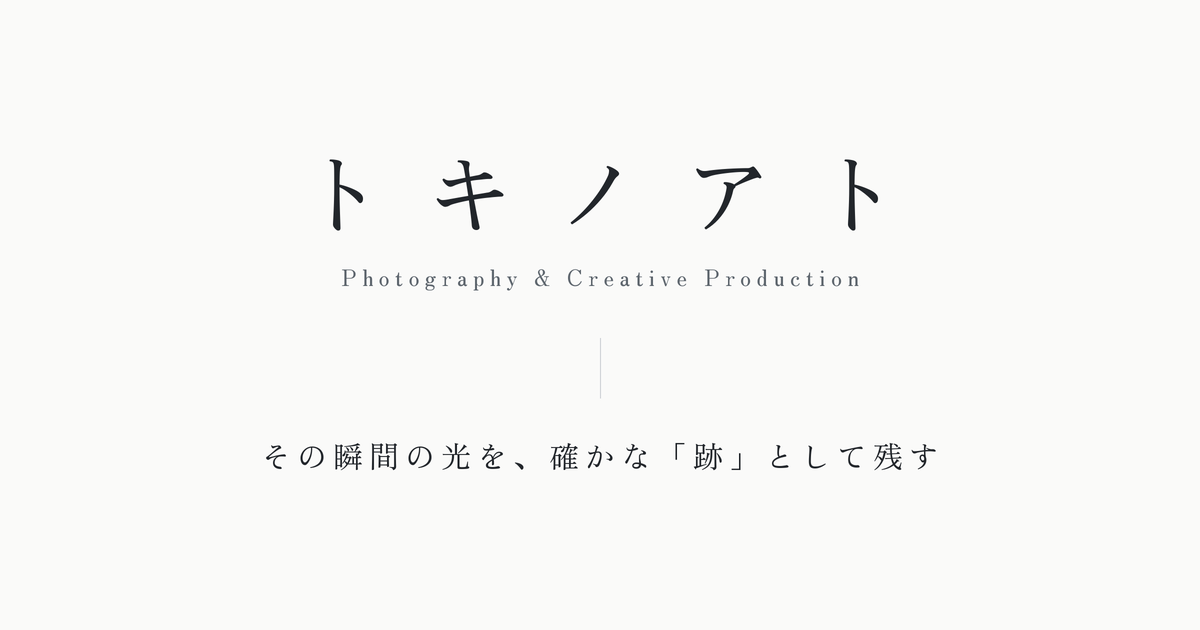
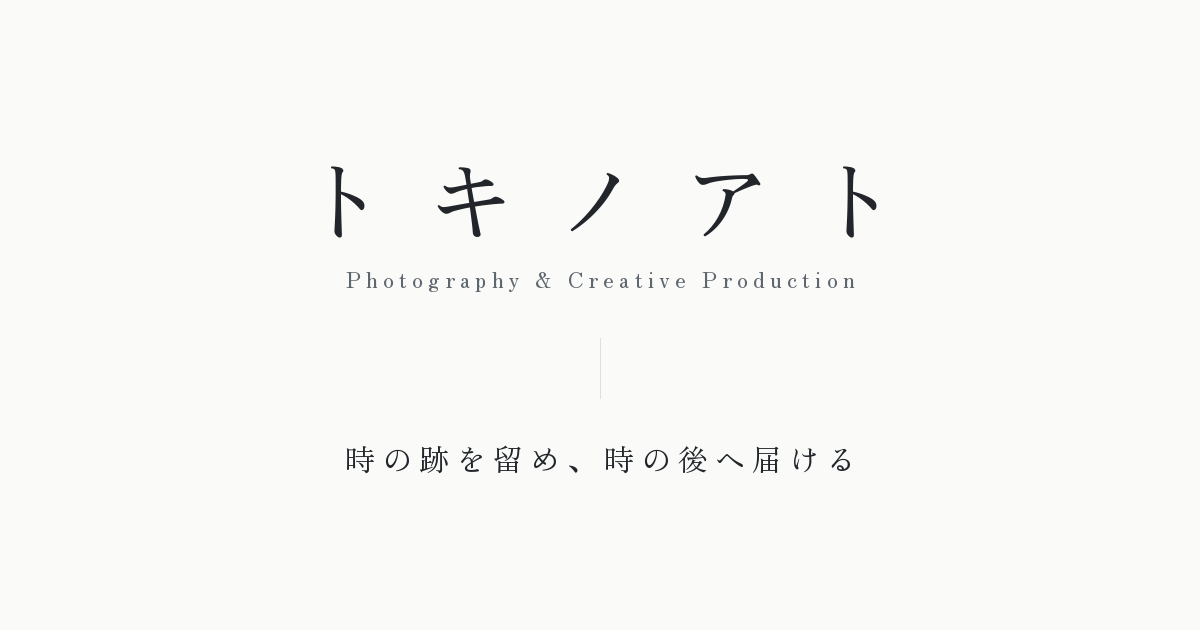
Add files via upload

diff --git a/index.html b/index.html
@@ -19,7 +19,7 @@
 <meta property="og:image" content="https://tokinoato.com/ogp_top.png">
 <meta property="og:image:width" content="1200">
 <meta property="og:image:height" content="630">
-<meta property="og:image:alt" content="トキノアト　Photography &amp; Creative Production　その瞬間の光を、確かな「跡」として残す">
+<meta property="og:image:alt" content="トキノアト　Photography &amp; Creative Production　時の跡を留め、時の後へ届ける">
 <meta name="twitter:card" content="summary_large_image">
 <script type="application/ld+json">
 {
@@ -30,8 +30,8 @@
    "@id": "https://tokinoato.com/#business",
    "name": "トキノアト",
    "alternateName": "TOKINOATO",
-   "description": "名古屋を拠点にするフォトグラフィー＆クリエイティブ・プロダクション。広告撮影、撮影ディレクション、美術品撮影。",
-   "slogan": "その瞬間の光を、確かな「跡」として残す",
+   "description": "名古屋を拠点にするフォトグラフィー＆クリエイティブ・プロダクション。広告撮影、撮影ディレクション、美術品撮影。屋号は「時の跡」と「時の後」の二つの意味を持つ。",
+   "slogan": "時の跡を留め、時の後へ届ける",
    "url": "https://tokinoato.com/",
    "email": "contact@tokinoato.com",
    "foundingDate": "2027",
@@ -58,7 +58,7 @@
        "@type": "Service",
        "name": "広告撮影",
        "alternateName": "Commercial Photography",
-       "description": "広告、会社案内、Webサイトなどに使う写真の撮影。人物、商品、建築、風景。色補正とレタッチまで手がける。"
+       "description": "広告、会社案内、Webサイトなどに使う写真の撮影。人物、商品、建築、風景、スポーツ。色補正とレタッチまで手がける。"
       }
      },
      {
@@ -199,7 +199,8 @@
   /* FOOTER */
   footer{text-align:center;padding:0 24px 80px;font-size:12px;color:var(--sub);letter-spacing:.2em;line-height:2.2}
   footer p{margin:0}
-  /* 作家ステートメント */
+  /* 屋号の由来 */
+  footer .origin{margin:0 0 1em;font-size:14px;letter-spacing:.2em;color:var(--ink)}
   footer .statement{margin:0 0 1.4em;font-size:13px;letter-spacing:.14em;color:var(--body)}
   footer .mark{margin-top:2.4em}
 
@@ -230,7 +231,7 @@
   <header>
     <h1>トキノアト</h1>
     <p class="what" lang="en">Photography &amp; Creative Production</p>
-    <p class="copy">その瞬間の光を、確かな「跡」として残す</p>
+    <p class="copy">時の跡を留め、時の後へ届ける</p>
   </header>
 
   <main>
@@ -239,7 +240,7 @@
       <div class="fields">
         <div>
           <h3>広告撮影<span class="en" lang="en">Commercial Photography</span></h3>
-          <p>広告、会社案内、Webサイトなど、あらゆる媒体に向けたビジュアルを制作します。人物、プロダクト、建築から風景まで、多岐にわたる被写体に対応。媒体のトーンに合わせた自然で緻密な色補正とレタッチまで、ワンストップで手がけます。</p>
+          <p>広告、会社案内、Webサイトなど、あらゆる媒体に向けたビジュアルを制作します。人物、プロダクト、建築、風景からスポーツまで、多岐にわたる被写体に対応。媒体のトーンに合わせた自然で緻密な色補正とレタッチまで、ワンストップで手がけます。</p>
         </div>
         <div>
           <h3>撮影ディレクション<span class="en" lang="en">Photo Direction</span></h3>
@@ -271,7 +272,8 @@
   </main>
 
   <footer class="tone">
-    <p class="statement">日常の中で、<br class="sp-only">やがて失われていくものを撮り続けている。<br>飾るためではなく、<br class="sp-only">それがそこに在ったことを残すために。</p>
+    <p class="origin">「トキノアト」は、<br class="sp-only">「時の跡」と「時の後」。</p>
+    <p class="statement">やわらかな光も、ささやかな気配も、<br class="sp-only">まばたきする間にすり抜けていく。<br>同じ瞬間は、<br class="sp-only">もう二度と巡ってこないから。<br>そのかけがえのない一瞬を<br class="sp-only">確かな「跡」として留め、<br>季節がいくつも過ぎた「後」にも、<br class="sp-only">静かに輝き続ける写真を。</p>
     <p lang="en">What stood before me, as it was.</p>
     <ul class="sns">
       <li><a href="https://x.com/naografo" rel="me noopener" target="_blank" aria-label="X（@naografo）"><img src="/img/x.png" width="18" height="18" alt=""></a></li>
